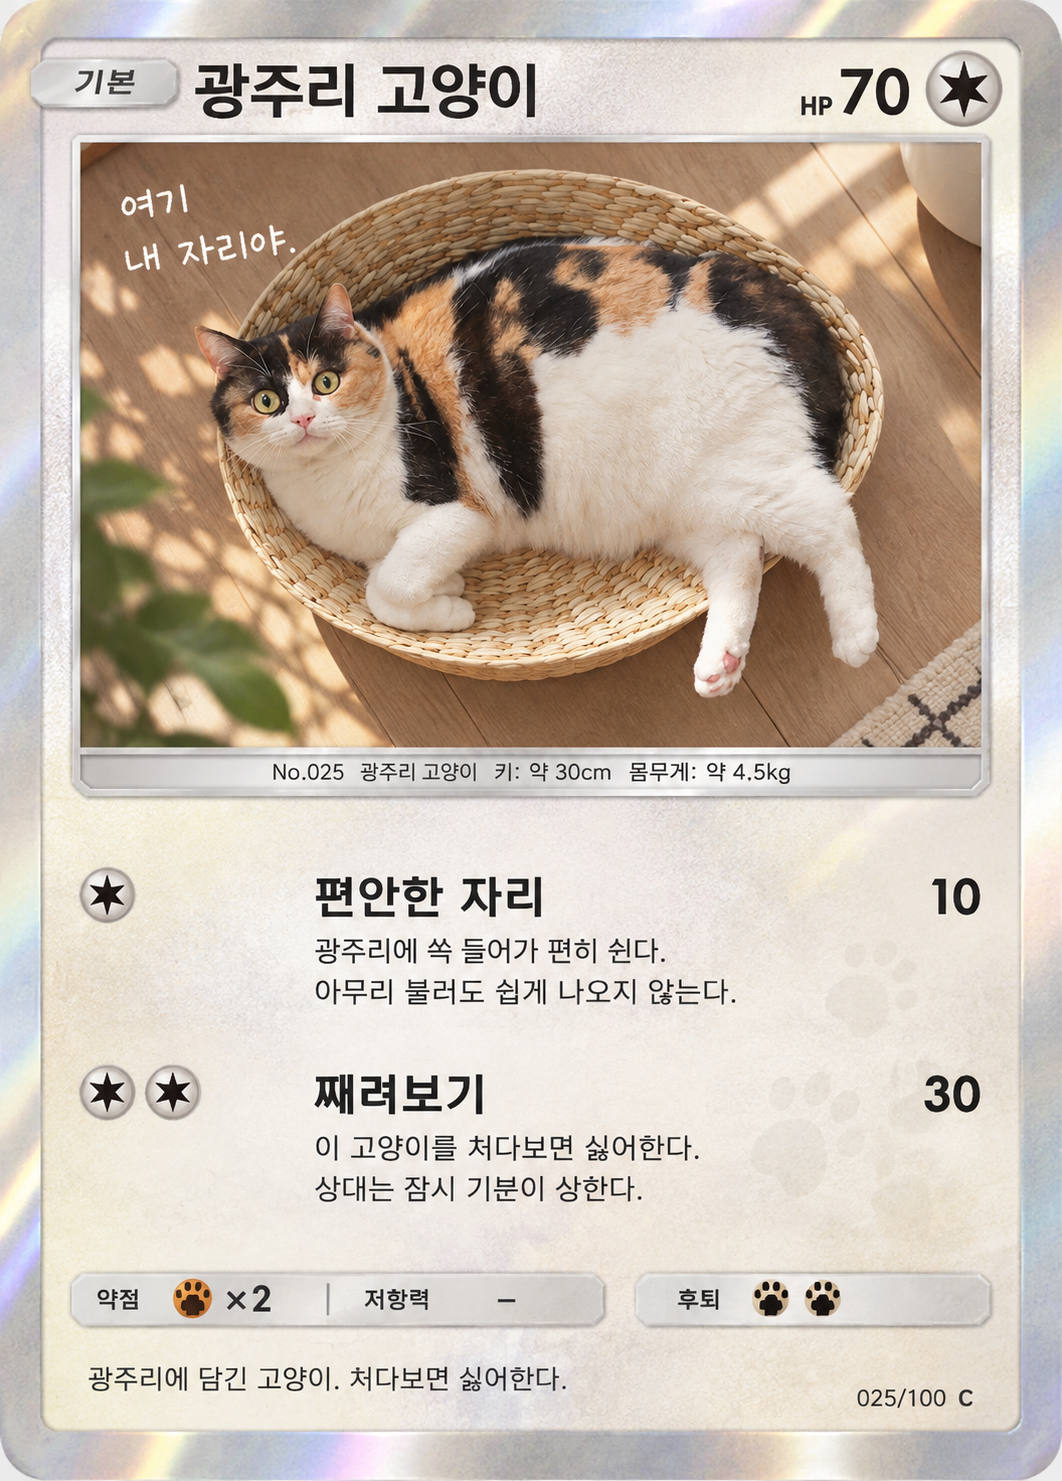
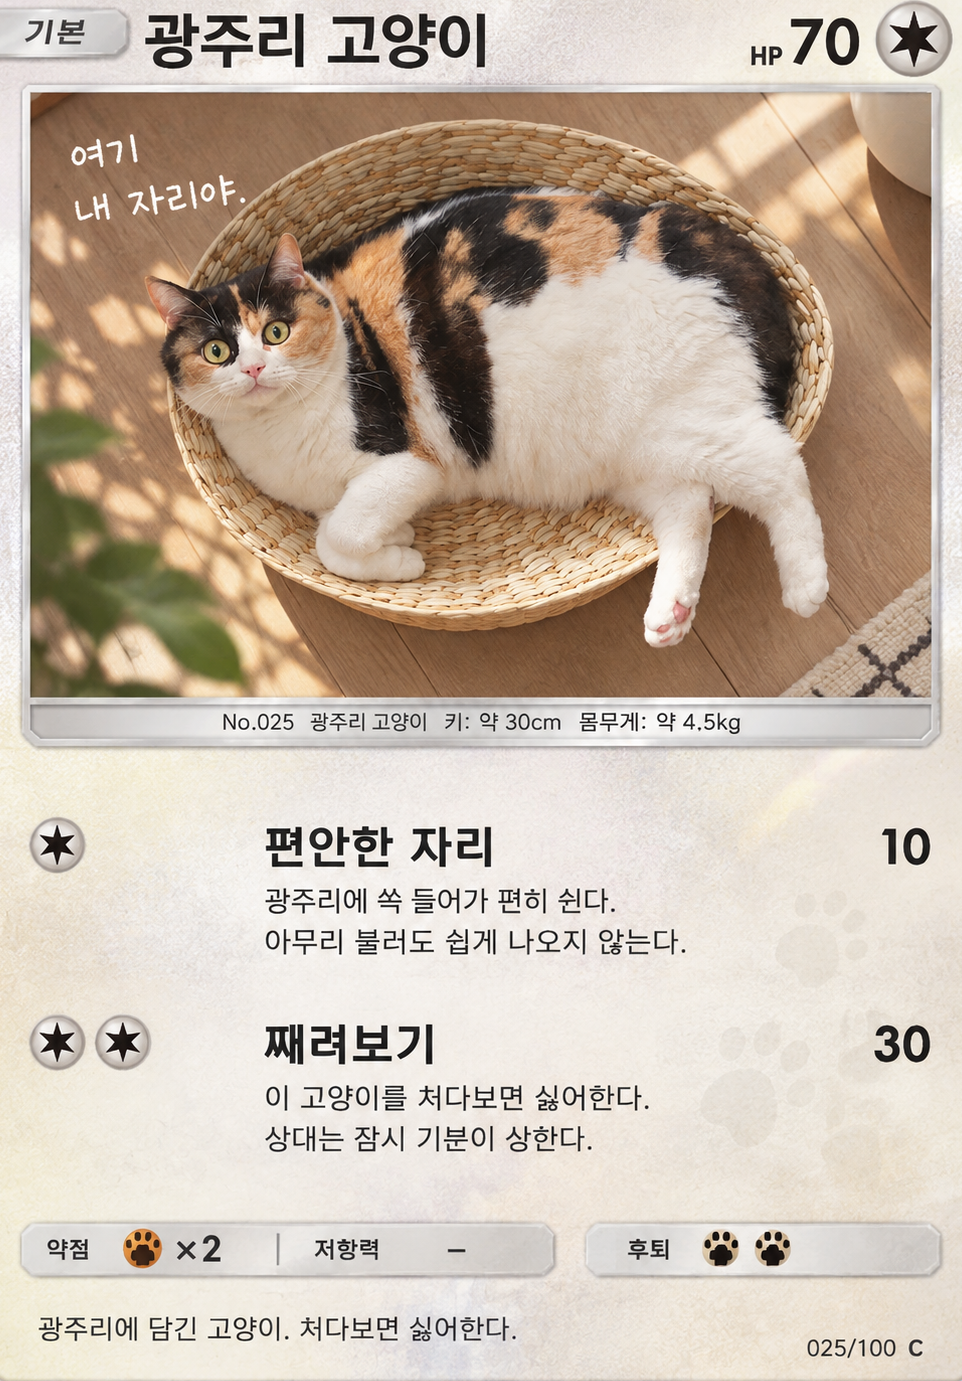
feat(cat-card): crop the printed foil border off the card art
The card artwork shipped with an iridescent border baked into the image, so
the sheen on screen was two effects layered on each other and there was no
way to tell which one was doing the work.

Measured the band by scanning saturation inward from each edge — it runs
about 40 to 46 pixels — and cropped 50 from every side to take the thin
silver rule inside it as well. The corners come back at low saturation
afterwards, so no arc of the old border survives. The aspect ratio constant
moves with it, otherwise the card stretches.

Confirmed on an emulator that the overlay alone still reads: the sheen
covers the full card including the rounded corners, and injecting a tilt
through the sensor shifts the rainbow across the surface and swings the
card in perspective, so the motion path is live rather than a static wash.

The release gate added earlier caught the stale updates manifest the moment
the image changed, which is exactly the failure that shipped three builds
with an invisible photo.

Claude-Session: https://claude.ai/code/session_013eukWji624BDkzbLoAVoDb

diff --git a/src/features/cat-card/catalog.ts b/src/features/cat-card/catalog.ts
@@ -18,7 +18,9 @@ export interface CatCard {
   shareable: boolean;
 }
 
-export const CARD_ASPECT_RATIO = 1062 / 1481;
+// 원본 카드 아트에는 무지개 테두리가 인쇄돼 있었다. 우리 홀로 오버레이와 겹쳐서
+// 어느 쪽이 동작하는지 구분이 안 되므로 사방 50px 을 잘라냈다. (1062x1481 -> 962x1381)
+export const CARD_ASPECT_RATIO = 962 / 1381;
 
 export const SEASON_1: readonly CatCard[] = [
   { id: 'cat-001', season: 1, name: '광주리 고양이', description: '광주리에 담긴 고양이. 처다보면 싫어한다.', rarity: 'N', breed: 'Calico', imageKey: 'cat-001', shareable: true },
